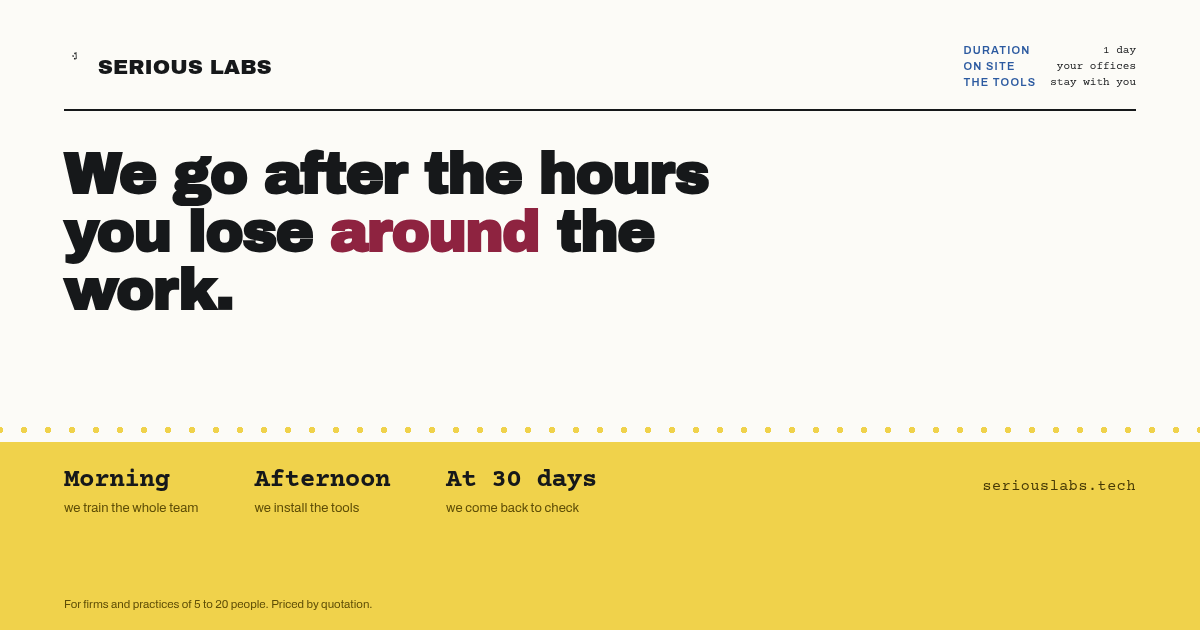
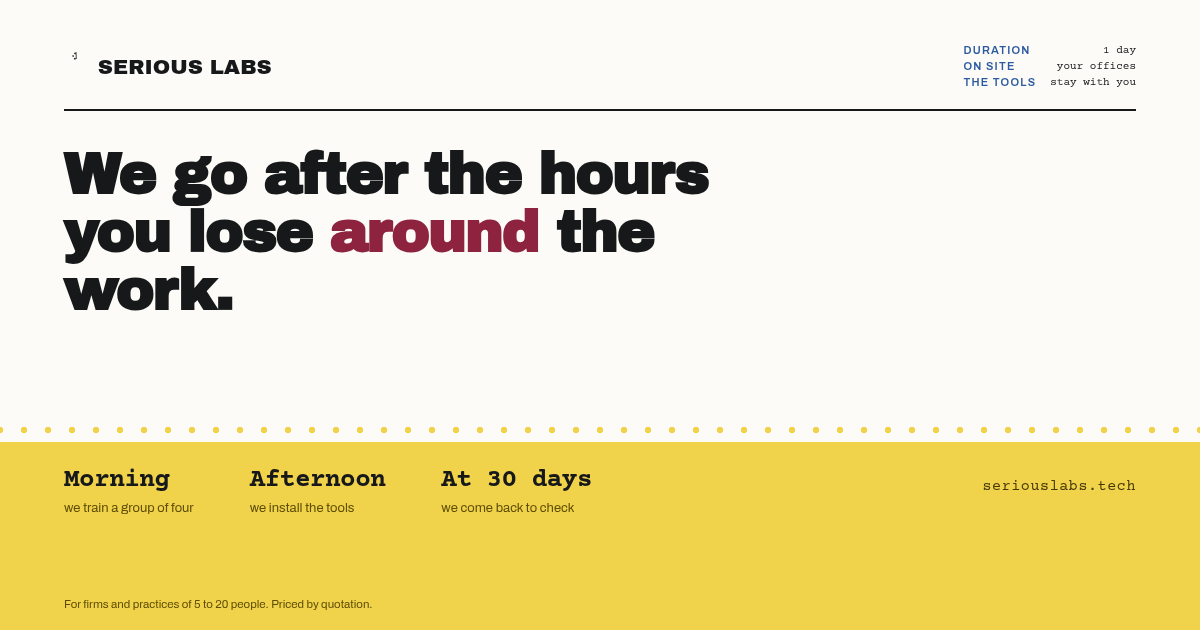
Corrige une contradiction : quatre participants, pas toute l'équipe
Le site promettait « toute l'équipe formée en même temps » à des structures de
cinq à vingt personnes, alors que la capacité réelle est de quatre participants
par journée. Un prospect de quinze personnes lisait donc un engagement qui ne
pouvait pas être tenu.

Neuf formulations corrigées dans les deux langues : description, aperçu social,
chapeau, ligne « effectif formé » du bloc de conditions, étape du matin, et la
liste du budget qui porte maintenant la règle complète — jusqu'à quatre par
journée, plusieurs sessions au-delà.

La note du bloc de conditions le dit à l'endroit où la question se pose, juste
après « pensé pour les structures de 5 à 20 personnes », pour que le lecteur
n'ait pas à faire l'arithmétique lui-même.

PRODUCT.md enregistre la limite comme une contrainte de fond, avec l'interdiction
explicite de laisser réapparaître la formulation fautive. Trois autres points y
étaient restés en arrière et sont remis d'aplomb : le calculateur y figurait
encore comme une fonctionnalité, un principe parlait d'estimations qui n'existent
plus, et le symbole y était décrit comme débarrassé de sa manette alors que le
tracé fidèle la conserve, par décision du client.

Claude-Session: https://claude.ai/code/session_01WuA3t12MAUdaRiRkL9ddsA

Changed region(s): [[0.37, 0.7238, 0.4933, 0.8143], [0.2158, 0.7238, 0.3392, 0.8143], [0.0925, 0.7841, 0.185, 0.8143]]

diff --git a/index.html b/index.html
@@ -4,7 +4,7 @@
 <meta charset="utf-8">
 <meta name="viewport" content="width=device-width, initial-scale=1">
 <title>Serious Labs — Formation à l'IA et installation d'outils, en une journée</title>
-<meta name="description" content="Une journée dans vos locaux : formation de toute l'équipe le matin, installation et configuration des outils l'après-midi. Pour les cabinets et TPE de 5 à 20 personnes.">
+<meta name="description" content="Une journée dans vos locaux : un groupe de quatre formé le matin, les outils installés et configurés l'après-midi. Pour les cabinets et TPE de 5 à 20 personnes.">
 
 <link rel="canonical" href="https://seriouslabs.tech/">
 <link rel="alternate" hreflang="fr" href="https://seriouslabs.tech/">
@@ -16,7 +16,7 @@
 <meta property="og:url" content="https://seriouslabs.tech/">
 <meta property="og:site_name" content="Serious Labs">
 <meta property="og:title" content="Serious Labs — Formation à l'IA et installation d'outils, en une journée">
-<meta property="og:description" content="Une journée dans vos locaux : on forme toute l'équipe le matin, on installe les outils l'après-midi.">
+<meta property="og:description" content="Une journée dans vos locaux : on forme un groupe de quatre le matin, on installe les outils l'après-midi.">
 <meta name="twitter:card" content="summary_large_image">
 <meta property="og:image" content="https://seriouslabs.tech/assets/img/og-fr.png">
 <meta property="og:image:type" content="image/png">
@@ -87,7 +87,7 @@
     <div class="wrap top">
       <div>
         <h1 class="statement">Les heures que vous perdez <em>autour</em> du métier, on va les chercher.</h1>
-        <p class="top__lede">Une journée dans vos locaux : on forme toute l'équipe le matin, on installe les outils l'après-midi. On revient un mois plus tard voir ce qui sert encore.</p>
+        <p class="top__lede">Une journée dans vos locaux : on forme un groupe de quatre le matin, on installe les outils l'après-midi. On revient un mois plus tard voir ce qui sert encore.</p>
         <div class="act-block">
           <a class="btn btn--stamp" href="#contact">Demander un devis</a>
         </div>
@@ -98,14 +98,14 @@
         <dl class="terms">
           <div class="terms__row"><dt>Durée</dt><dd>1 journée</dd></div>
           <div class="terms__row"><dt>Sur place</dt><dd>Vos locaux</dd></div>
-          <div class="terms__row"><dt>Effectif formé</dt><dd>Toute l'équipe</dd></div>
+          <div class="terms__row"><dt>Effectif formé</dt><dd>4 par journée</dd></div>
           <div class="terms__row"><dt>Les outils</dt><dd>Restent chez vous</dd></div>
           <div class="terms__row"><dt>Suivi</dt><dd>Point à 30 jours</dd></div>
           <div class="terms__row"><dt>Tarif</dt><dd>Sur devis</dd></div>
           <div class="terms__row"><dt>Réponse</dt><dd>1 jour ouvré</dd></div>
         </dl>
         <p style="margin-top:1.3rem"><span class="stamp">Sans engagement</span></p>
-        <p class="prose" style="margin-top:1.1rem;font-size:.82rem">Pensé pour les structures de 5 à 20 personnes : cabinets d'expertise comptable, avocats, agences, bureaux d'études, artisans structurés.</p>
+        <p class="prose" style="margin-top:1.1rem;font-size:.82rem">Pensé pour les structures de 5 à 20 personnes : cabinets d'expertise comptable, avocats, agences, bureaux d'études, artisans structurés. Au-delà de quatre participants, on répartit sur plusieurs journées.</p>
       </div>
     </div>
   </section>
@@ -163,8 +163,8 @@
         <div class="exec__row">
           <p class="exec__when">Le jour J · matin</p>
           <div>
-            <p class="exec__t">Tout le monde apprend sur ses propres dossiers</p>
-            <p class="exec__d">Tout le monde dans la même salle, sur les dossiers en cours. Aucun prérequis technique.</p>
+            <p class="exec__t">On forme un groupe de quatre</p>
+            <p class="exec__d">Quatre personnes au maximum, dans la même salle, sur les dossiers en cours. Aucun prérequis technique.</p>
           </div>
         </div>
         <div class="exec__row">
@@ -205,7 +205,7 @@
         <div>
           <ul class="tick-list">
             <li>Une journée en présentiel, dans vos locaux, sur les dossiers en cours</li>
-            <li>Toute l'équipe formée en même temps, sans prérequis technique, et qui garde la main sur ce qu'elle produit</li>
+            <li>Jusqu'à quatre personnes par journée, sans prérequis technique ; plusieurs sessions pour les équipes plus grandes</li>
             <li>Les outils installés et configurés dans la journée, dont vous gardez la propriété</li>
             <li>Un point de contrôle à trente jours, compris dans l'intervention</li>
             <li>Tarif établi sur devis, selon l'effectif et les tâches à reprendre</li>

diff --git a/en/index.html b/en/index.html
@@ -4,7 +4,7 @@
 <meta charset="utf-8">
 <meta name="viewport" content="width=device-width, initial-scale=1">
 <title>Serious Labs — AI training and tool installation, in a single day</title>
-<meta name="description" content="One day at your offices: the whole team trained in the morning, the tools installed and set up in the afternoon. For firms and practices of 5 to 20 people.">
+<meta name="description" content="One day at your offices: a group of four trained in the morning, the tools installed and set up in the afternoon. For firms and practices of 5 to 20 people.">
 
 <link rel="canonical" href="https://seriouslabs.tech/en/">
 <link rel="alternate" hreflang="fr" href="https://seriouslabs.tech/">
@@ -16,7 +16,7 @@
 <meta property="og:url" content="https://seriouslabs.tech/en/">
 <meta property="og:site_name" content="Serious Labs">
 <meta property="og:title" content="Serious Labs — AI training and tool installation, in a single day">
-<meta property="og:description" content="One day at your offices: we train the whole team in the morning and install the tools in the afternoon.">
+<meta property="og:description" content="One day at your offices: we train a group of four in the morning and install the tools in the afternoon.">
 <meta name="twitter:card" content="summary_large_image">
 <meta property="og:image" content="https://seriouslabs.tech/assets/img/og-en.png">
 <meta property="og:image:type" content="image/png">
@@ -87,7 +87,7 @@
     <div class="wrap top">
       <div>
         <h1 class="statement">We go after the hours you lose <em>around</em> the work.</h1>
-        <p class="top__lede">One day at your offices. We train the whole team in the morning and install the tools in the afternoon. Thirty days later we come back to see what is still being used.</p>
+        <p class="top__lede">One day at your offices. We train a group of four in the morning and install the tools in the afternoon. Thirty days later we come back to see what is still being used.</p>
         <div class="act-block">
           <a class="btn btn--stamp" href="#contact">Request a quote</a>
         </div>
@@ -98,14 +98,14 @@
         <dl class="terms">
           <div class="terms__row"><dt>Length</dt><dd>1 day</dd></div>
           <div class="terms__row"><dt>On site</dt><dd>Your offices</dd></div>
-          <div class="terms__row"><dt>People trained</dt><dd>The whole team</dd></div>
+          <div class="terms__row"><dt>People trained</dt><dd>4 per day</dd></div>
           <div class="terms__row"><dt>The tools</dt><dd>Stay with you</dd></div>
           <div class="terms__row"><dt>Follow-up</dt><dd>30-day review</dd></div>
           <div class="terms__row"><dt>Price</dt><dd>By quotation</dd></div>
           <div class="terms__row"><dt>Reply</dt><dd>1 working day</dd></div>
         </dl>
         <p style="margin-top:1.3rem"><span class="stamp">No commitment</span></p>
-        <p class="prose" style="margin-top:1.1rem;font-size:.82rem">Built for firms of 5 to 20 people: accountancy practices, law firms, agencies, engineering consultancies, established trades.</p>
+        <p class="prose" style="margin-top:1.1rem;font-size:.82rem">Built for firms of 5 to 20 people: accountancy practices, law firms, agencies, engineering consultancies, established trades. Beyond four participants, we split it across several days.</p>
       </div>
     </div>
   </section>
@@ -163,8 +163,8 @@
         <div class="exec__row">
           <p class="exec__when">The day · morning</p>
           <div>
-            <p class="exec__t">Everyone learns on their own files</p>
-            <p class="exec__d">Everyone in the same room, on the live files. No technical background required.</p>
+            <p class="exec__t">We train a group of four</p>
+            <p class="exec__d">Four people at most, in the same room, on the live files. No technical background required.</p>
           </div>
         </div>
         <div class="exec__row">
@@ -205,7 +205,7 @@
         <div>
           <ul class="tick-list">
             <li>One day in person, at your offices, working on live files</li>
-            <li>The whole team trained at the same time, with no technical background required</li>
+            <li>Up to four people per day, with no technical background required; several sessions for larger teams</li>
             <li>The tools installed and set up within the day, and you keep ownership of them</li>
             <li>A check-in at thirty days, included in the engagement</li>
             <li>Price by quotation, based on headcount and on the jobs you want taken on</li>

diff --git a/PRODUCT.md b/PRODUCT.md
@@ -16,7 +16,9 @@ Le décideur est presque toujours le propriétaire de l'entreprise. Il paie de s
 
 ## Product Purpose
 
-Une intervention d'une journée en présentiel dans les locaux du client : formation de toute l'équipe le matin, installation et configuration des outils l'après-midi, puis un point de contrôle à trente jours inclus.
+Une intervention d'une journée en présentiel dans les locaux du client : formation d'un groupe le matin, installation et configuration des outils l'après-midi, puis un point de contrôle à trente jours inclus.
+
+**Quatre participants au maximum par journée.** C'est une contrainte de fond, pas un détail de planning : une structure de vingt personnes suppose donc plusieurs journées. Toute formulation du type « toute l'équipe formée en même temps » contredit cette limite et ne doit pas réapparaître.
 
 Le succès se mesure à une chose : trente jours après, les outils sont encore utilisés. Ce qui ne l'est pas est corrigé ou retiré.
 
@@ -40,7 +42,7 @@ Le premier contact se fait par un formulaire ou par courriel. La promesse de ré
 - Un seul point d'entrée dynamique : un script PHP qui traite le formulaire et envoie par SMTP authentifié chez OVH. L'extension mbstring n'est pas installée sur le serveur.
 - Aucun cookie, aucun traceur, aucune mesure d'audience. Cette absence est un choix assumé : elle supprime le bandeau de consentement et le risque associé.
 - Bilingue français et anglais, en deux pages statiques distinctes liées par des balises `hreflang`. Le français est la langue principale.
-- Un calculateur d'économies interactif dont toutes les hypothèses sont affichées et modifiables par le visiteur.
+- **Aucun calculateur.** Il a existé puis a été retiré : il demandait au visiteur de régler des curseurs et de lire des hypothèses avant de comprendre l'offre. Ne pas le réintroduire sans décision explicite.
 - Tarifs **non affichés** : devis sur mesure.
 - Certification Qualiopi et déclaration d'activité d'organisme de formation **en cours d'obtention**. Tant qu'elles ne sont pas acquises, aucune prise en charge par un OPCO n'est possible et le site doit le dire explicitement.
 - Le code NAF déclaré est encore 58.21Z, édition de jeux électroniques, et ne correspond plus à l'activité.
@@ -49,7 +51,9 @@ Le premier contact se fait par un formulaire ou par courriel. La promesse de ré
 
 Nom : Serious Labs. Forme juridique : SAS, siège au 12 rue Juliette Dodu, 75010 Paris. Le siège figurant dans les mentions légales doit rester l'adresse réellement immatriculée.
 
-Symbole : une fiole de laboratoire, héritée du logo d'origine, en SVG. Elle a été délibérément débarrassée de l'iconographie de jeu vidéo qu'elle contenait. Le nom et la fiole sont les seuls éléments d'identité que le client a rendus contraignants.
+Symbole : le logo d'origine, vectorisé fidèlement par tracé de son fichier — fiole de laboratoire contenant une croix directionnelle et des boutons de manette. Des redessins ont été proposés et écartés par le client : ce sont ses contours qui font foi, manette comprise. L'original est versionné dans `assets/brand/`, il n'existe nulle part ailleurs.
+
+La manette évoque le jeu vidéo, ce que l'activité n'est plus. Le client le sait et a tranché en connaissance de cause.
 
 Voix : directe et concrète, sans jargon technologique, tutoyant le problème plutôt que le produit. Le site dit ce qui n'est pas encore acquis plutôt que de le laisser deviner.
 
@@ -59,7 +63,6 @@ Voix : directe et concrète, sans jargon technologique, tutoyant le problème pl
 
 Ce qui existe réellement et peut porter la démonstration :
 
-- le calculateur et ses hypothèses ouvertes, contestables par le visiteur ;
 - le déroulé détaillé d'une intervention, qui vaut engagement ;
 - les mentions légales complètes et vérifiables sur l'annuaire des entreprises ;
 - l'aveu explicite que Qualiopi n'est pas obtenue, qui est en soi un signal de fiabilité.
@@ -69,8 +72,8 @@ Toute section de preuve sociale doit donc être absente, et la page doit tenir d
 ## Product Principles
 
 1. **L'humain garde la main.** Ce principe irrigue chaque section plutôt que d'occuper un bloc dédié — le client l'a explicitement demandé ainsi.
-2. **Montrer l'argent partout**, sans jamais le promettre. Chaque estimation s'accompagne de ses hypothèses et du mot « estimation ».
-3. **Dire ce qui n'est pas acquis.** Qualiopi en cours, pas de prise en charge OPCO, estimations non contractuelles. La transparence remplace la preuve sociale absente.
+2. **Ne rien avancer qu'on ne puisse défendre.** Aucun chiffre de gain n'est affiché : ceux qui l'étaient reposaient sur des hypothèses que le visiteur devait lire pour les comprendre, et un au moins n'était étayé par rien.
+3. **Dire ce qui n'est pas acquis.** Qualiopi en cours, pas de prise en charge OPCO, quatre participants au maximum. La transparence remplace la preuve sociale absente.
 4. **Rien ne dépend d'un tiers.** Ni plateforme louée côté client, ni service externe côté site : pas de traceur, pas de captcha, pas de dépendance de rendu.
 5. **Le temps, pas la technologie.** L'unité de valeur est l'heure récupérée, jamais la fonctionnalité.
 
